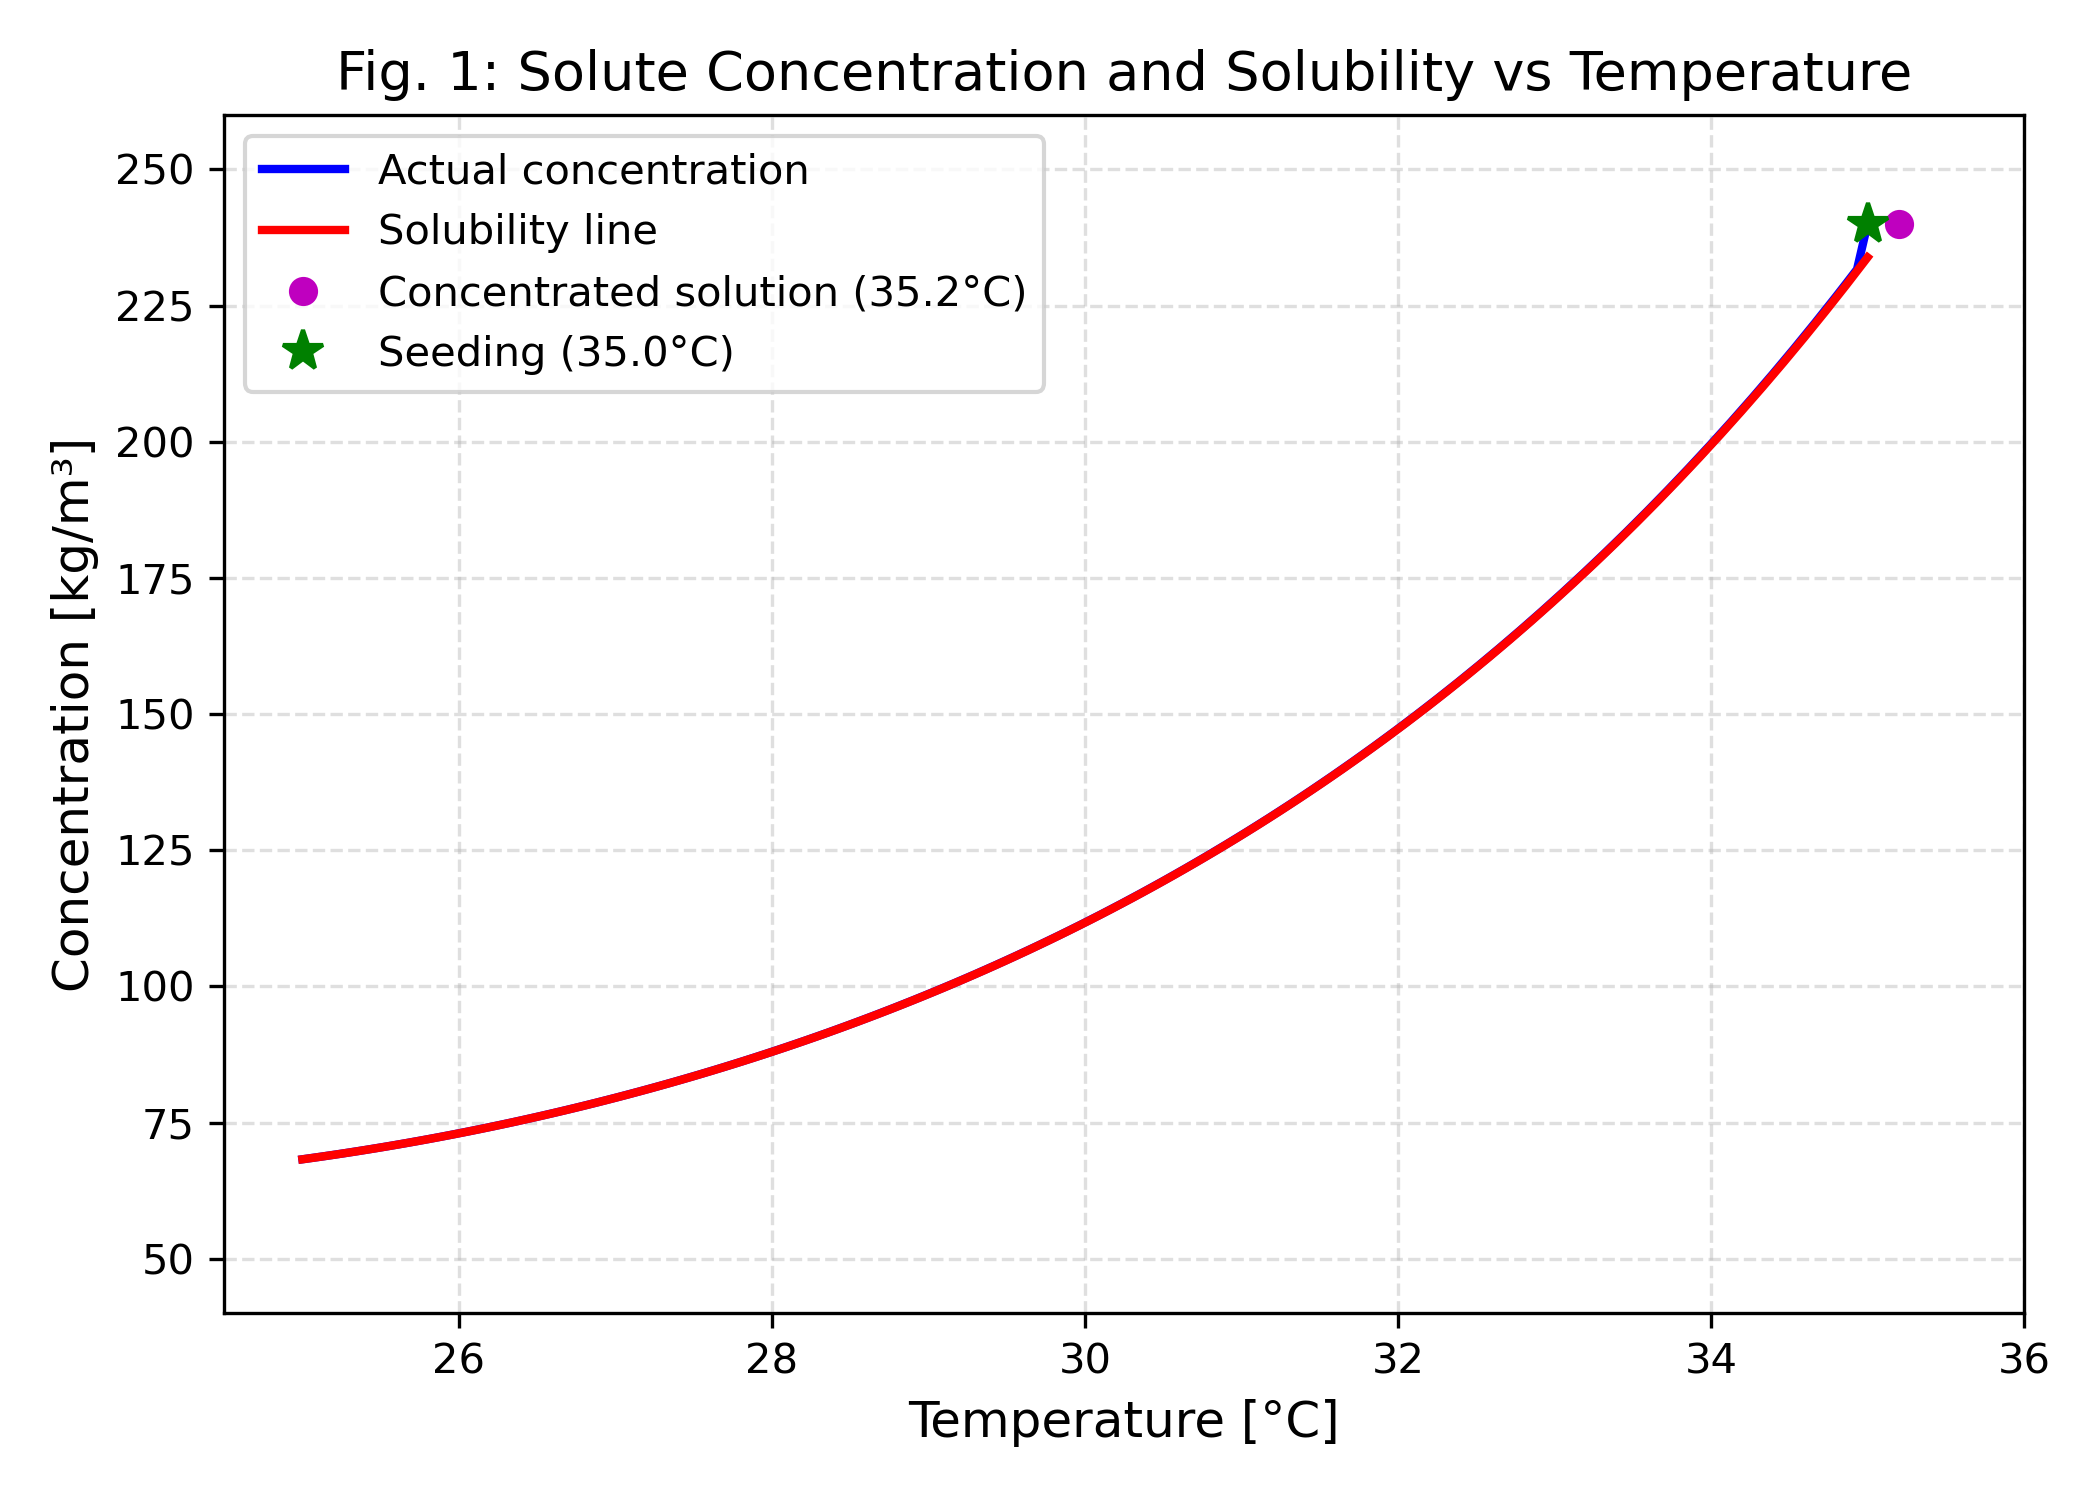
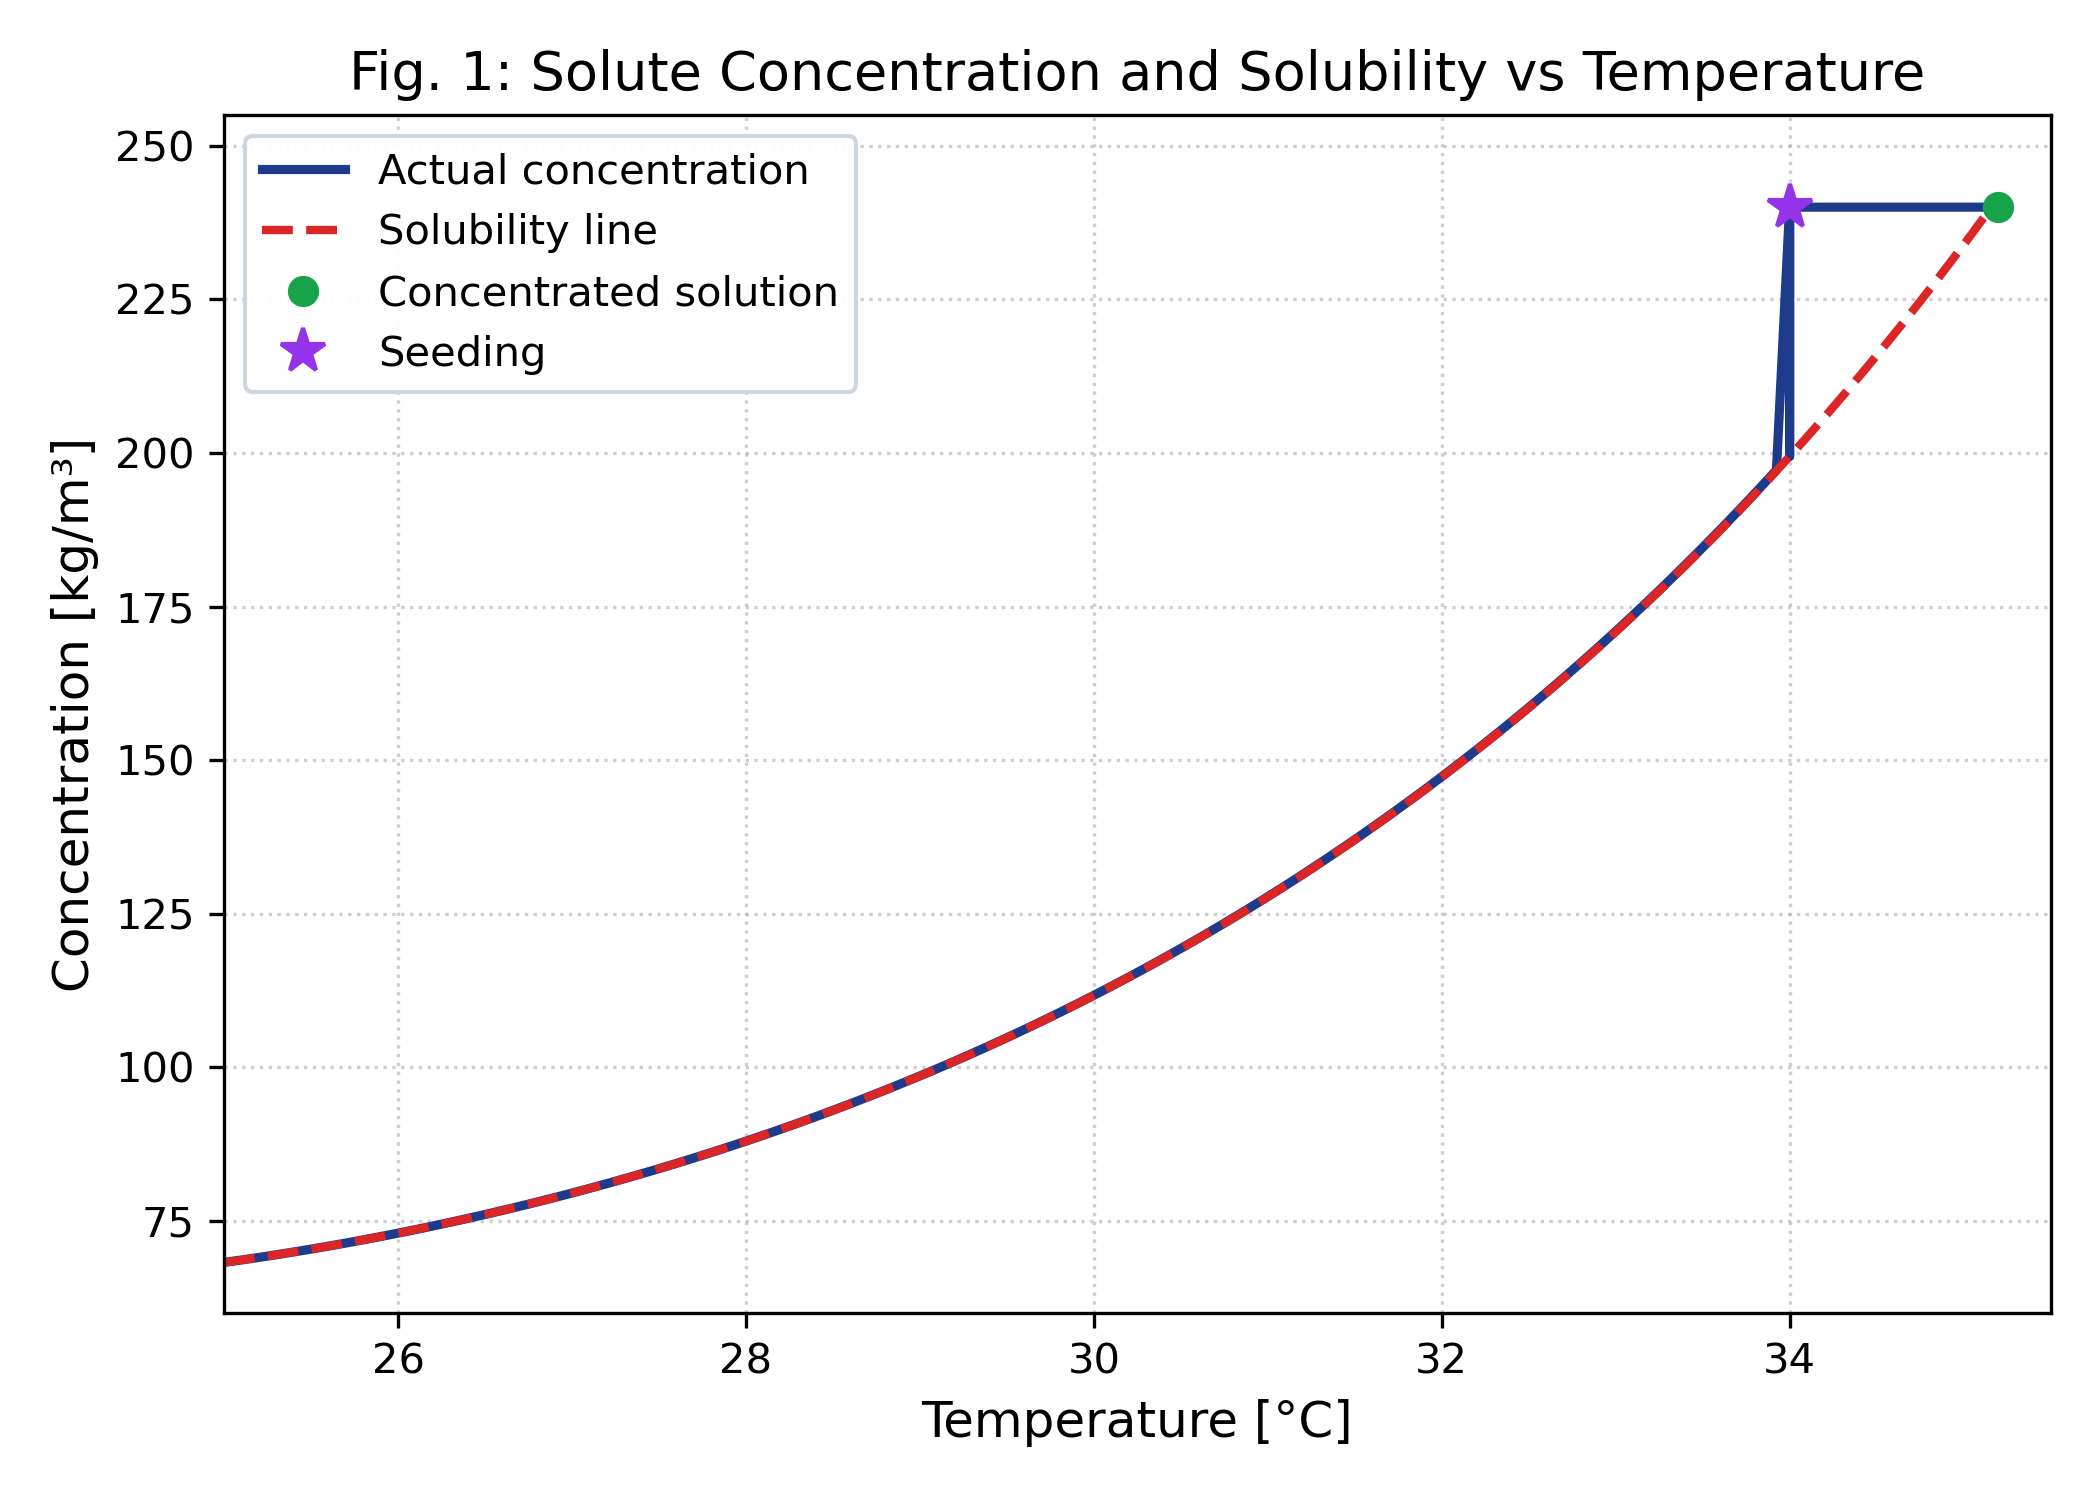
Update Figure 1 to exactly reproduce pre-cooling horizontal line, seeding star at 34.0 C, and vertical desaturation drop

diff --git a/reproduce_paper_results.py b/reproduce_paper_results.py
@@ -47,21 +47,47 @@ plt.rcParams.update({
 def generate_figure_1(simulator: BatchCrystallizerMOM):
     """Fig. 1: Solute concentration and solubility vs temperature."""
     print("Generating Figure 1: Solute concentration and solubility vs temperature...")
-    res = simulator.simulate(T_seed=35.0, T_final=25.0, cooling_rate=config.COOLING_RATE_NOMINAL)
+    
+    # 1. Full equilibrium solubility line from 25.0 to 35.2 °C
+    T_sol = np.linspace(25.0, 35.2, 200)
+    cs_sol = np.array([calculate_solubility(t) for t in T_sol])
+
+    # 2. Main cooling trajectory from seeding temp (Ts = 34.0 °C) down to 25.0 °C
+    res = simulator.simulate(T_seed=34.0, T_final=25.0, cooling_rate=config.COOLING_RATE_NOMINAL, num_points=120)
+
+    # 3. Construct exact actual concentration path:
+    #    a) Pre-cooling from Th = 35.2 °C to Ts = 34.0 °C at constant c = 240.0 kg/m^3
+    #    b) Vertical desaturation drop upon seeding at 34.0 °C down to near solubility line
+    #    c) Dynamic cooling trajectory from 34.0 °C to 25.0 °C
+    cs_at_seeding = float(calculate_solubility(34.0))
+    T_actual = np.concatenate([
+        [35.2, 34.0],              # Pre-cooling at constant concentration
+        [34.0],                    # Rapid desaturation drop at seeding
+        res["temperature"]         # Cooling desaturation path down to 25.0 °C
+    ])
+    c_actual = np.concatenate([
+        [240.0, 240.0],            # Pre-cooling
+        [cs_at_seeding],           # Drops to solubility at seeding
+        res["concentration"]       # Trajectory
+    ])
 
     plt.figure(figsize=(7, 5))
-    plt.plot(res["temperature"], res["concentration"], "b-", label="Actual concentration")
-    plt.plot(res["temperature"], res["solubility"], "r-", label="Solubility line")
-    plt.plot([35.2], [config.C0_SOLUTE], "mo", markersize=6, label="Concentrated solution (35.2°C)")
-    plt.plot([35.0], [config.C0_SOLUTE], "g*", markersize=10, label="Seeding (35.0°C)")
+    # Blue solid actual concentration trajectory
+    plt.plot(T_actual, c_actual, color="#1e3a8a", linewidth=2.2, label="Actual concentration")
+    # Red dashed solubility curve
+    plt.plot(T_sol, cs_sol, color="#dc2626", linestyle="--", linewidth=2.0, label="Solubility line")
+    # Green circle at concentrated hot solution (35.2 °C, 240 kg/m^3)
+    plt.plot([35.2], [240.0], color="#16a34a", marker="o", markersize=6.5, linestyle="None", label="Concentrated solution")
+    # Purple star at seeding point (34.0 °C, 240 kg/m^3)
+    plt.plot([34.0], [240.0], color="#9333ea", marker="*", markersize=11.0, linestyle="None", label="Seeding")
 
-    plt.xlabel("Temperature [°C]")
-    plt.ylabel("Concentration [kg/m³]")
-    plt.title("Fig. 1: Solute Concentration and Solubility vs Temperature")
-    plt.xlim(24.5, 36.0)
-    plt.ylim(40, 260)
-    plt.grid(True, linestyle="--")
-    plt.legend(loc="upper left", frameon=True)
+    plt.xlabel("Temperature [°C]", fontsize=12)
+    plt.ylabel("Concentration [kg/m³]", fontsize=12)
+    plt.title("Fig. 1: Solute Concentration and Solubility vs Temperature", fontsize=13)
+    plt.xlim(25.0, 35.5)
+    plt.ylim(60, 255)
+    plt.grid(True, linestyle=":", alpha=0.6)
+    plt.legend(loc="upper left", frameon=True, framealpha=0.95, edgecolor="#cbd5e1")
     plt.tight_layout()
     plt.savefig(os.path.join(OUTPUT_DIR, "fig1_concentration_solubility.png"), dpi=300)
     plt.close()
